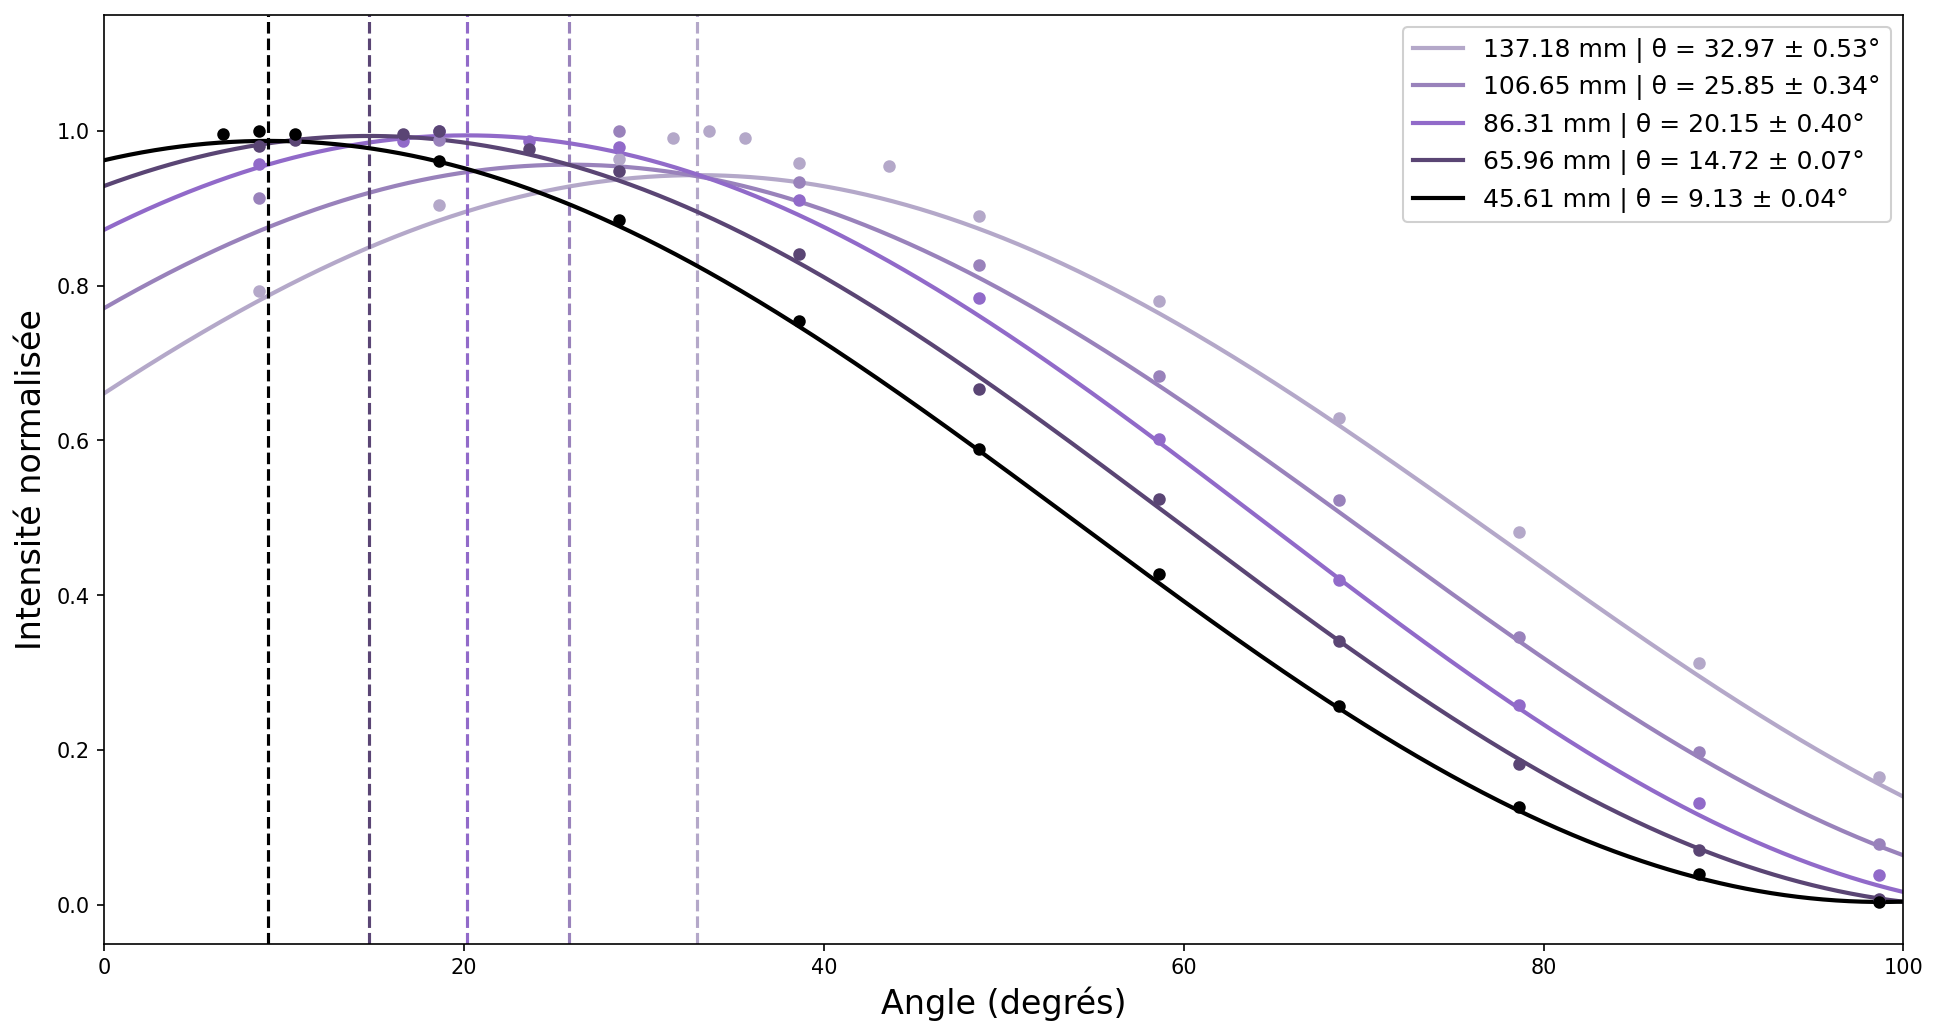
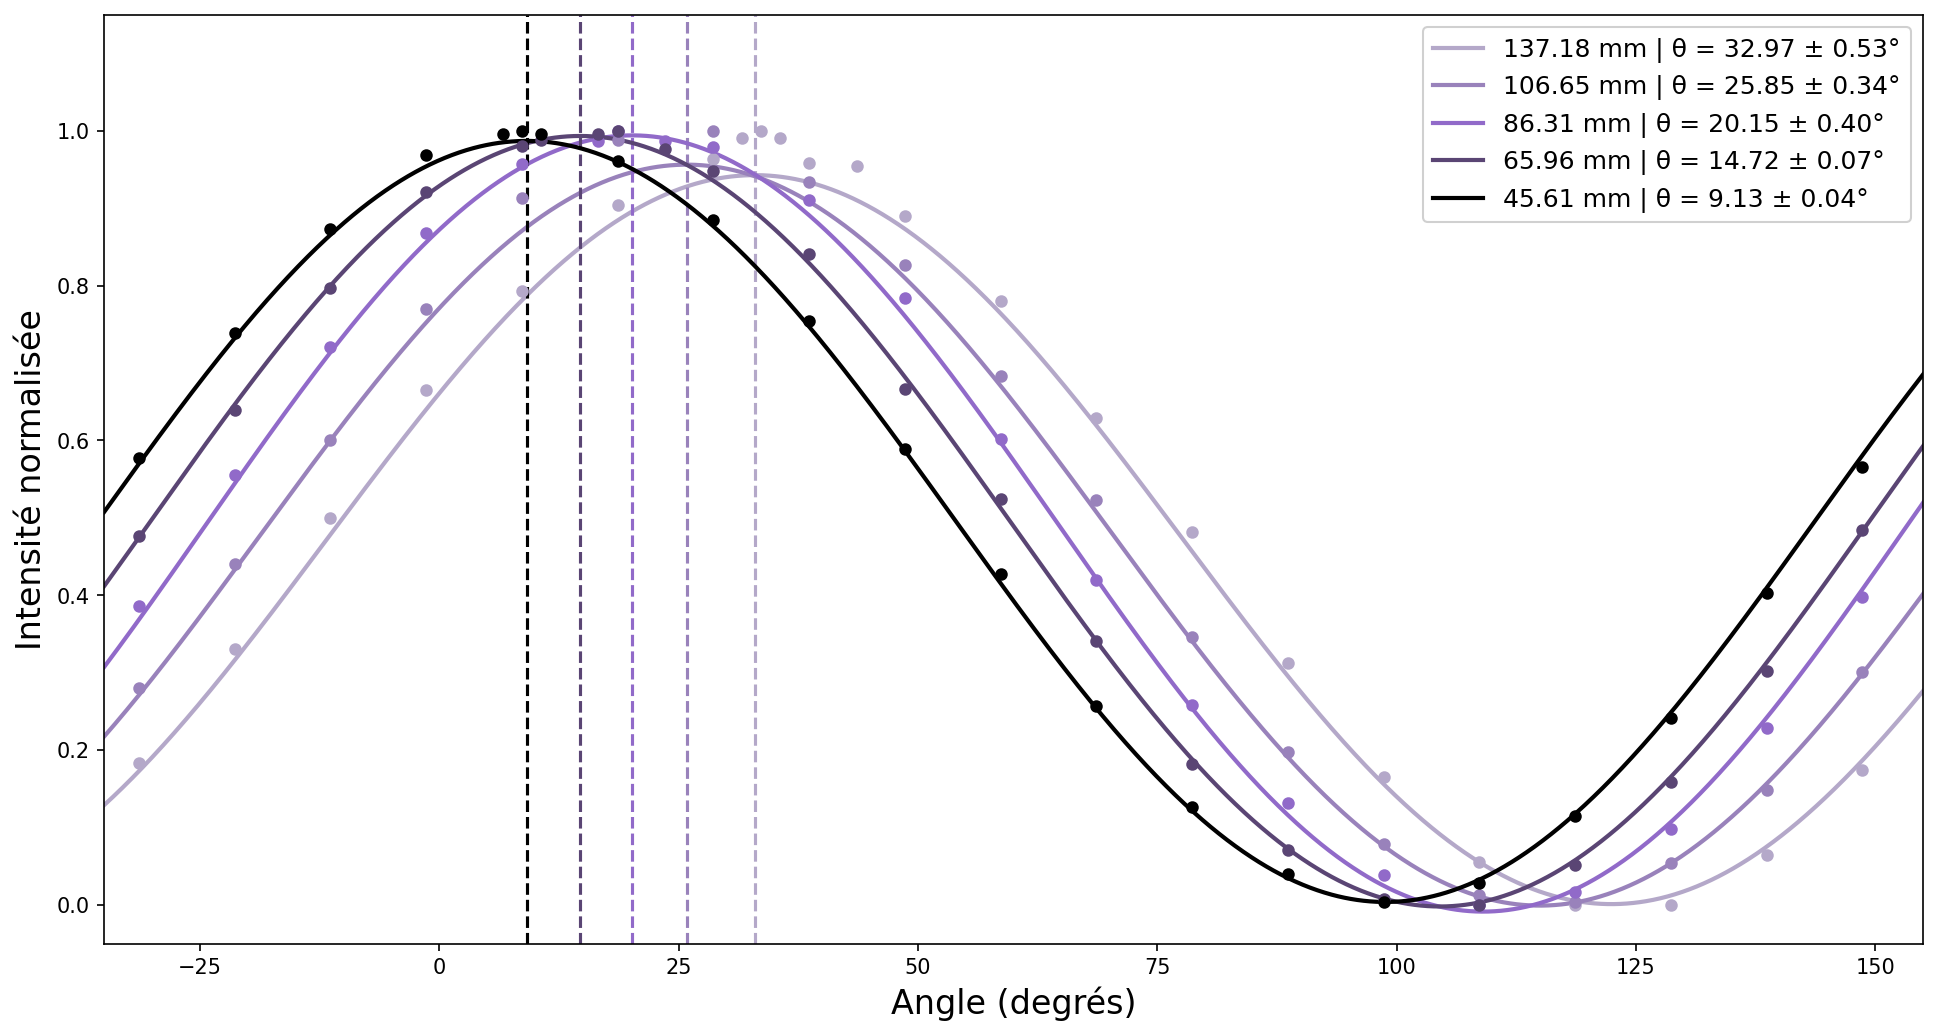
changements de noms et autres.... hihi

diff --git a/Projet_2/fructose_comparaison.py b/Projet_2/fructose_comparaison.py
@@ -9,8 +9,8 @@ from scipy.optimize import curve_fit
 # PARAMÈTRES — faciles à modifier
 # ============================================================
 theta_zero = 302.61
-ANGLE_MIN  = -130
-ANGLE_MAX  =   80
+ANGLE_MIN  = -120
+ANGLE_MAX  =   60
 # ============================================================
 
 base_dir   = os.path.dirname(os.path.abspath(__file__))
@@ -98,23 +98,23 @@ for i, col in enumerate(df.columns[2:2+len(vec_col)]):
         legend_label = f"{col} mm  |  θ_max = {x_max:.2f} ± {sigma_theta:.2f}°"
         ax.plot(x_smooth, y_smooth, color=vec_col[i], linewidth=2, label=legend_label)
 
-        ax.axvline(x_max, color=vec_col[i], linestyle='--', linewidth=0.7, alpha=0.4)
+        ax.axvline(x_max, color=vec_col[i], linestyle='--', linewidth=1.5, alpha=0.4)
 
     except RuntimeError:
         print(f"Curve fit échoué pour : {col}")
 
     print(f"{col} mm  |  θ_max = {x_max:.2f} ± {sigma_theta:.2f}°")
 
-ax.axvline(0, color='black', linewidth=1.2, linestyle='-', alpha=0.5, label='θ − θ₀ = 0°')
-ax.set_xlabel("Angle θ − θ₀  (degrés)", fontsize=13)
-ax.set_ylabel("Courant normalisé (u.a.)", fontsize=13)
+ax.axvline(0, color='black', linewidth=1.2, linestyle='-', alpha=0.5)
+ax.set_xlabel("Angle (°)", fontsize=13)
+ax.set_ylabel("Intensité normalisée", fontsize=13)
 ax.legend(fontsize=8.5, loc='upper right', framealpha=0.92)
-ax.grid(True, alpha=0.3)
-ax.set_xlim(ANGLE_MIN, ANGLE_MAX)
+ax.set_xlim(ANGLE_MIN-10, ANGLE_MAX+10)
 ax.set_ylim(-0.05, 1.15)
 
 plt.tight_layout()
-plt.show()
 
 out_path = os.path.join(base_dir, "plot_fructose.png")
-# plt.savefig(out_path, dpi=150, bbox_inches='tight')
+plt.savefig(out_path, dpi=600, bbox_inches='tight')
+
+plt.show()

diff --git a/Projet_2/glucose_comparaison.py b/Projet_2/glucose_comparaison.py
@@ -5,8 +5,8 @@ import matplotlib.pyplot as plt
 from scipy.optimize import curve_fit
 
 theta_zero   = 67.37
-ANGLE_MIN    = 0    
-ANGLE_MAX    = 100   
+ANGLE_MIN    = -30    
+ANGLE_MAX    = 150   
 sheet_name   = "Essai1"
 longueur     = ['137.18 mm', '106.65 mm', '86.31 mm', '65.96 mm', '45.61 mm'] 
 
@@ -95,7 +95,7 @@ for i, col in enumerate(longueur):
 
 ax.set_xlabel("Angle (degrés)", fontsize=16)
 ax.set_ylabel("Intensité normalisée", fontsize=16)
-ax.set_xlim(ANGLE_MIN, ANGLE_MAX)
+ax.set_xlim(ANGLE_MIN-5, ANGLE_MAX+5)
 ax.set_ylim(-0.05, 1.15)
 
 ax.legend(fontsize=12, loc='upper right', framealpha=0.92)
@@ -103,6 +103,6 @@ ax.legend(fontsize=12, loc='upper right', framealpha=0.92)
 plt.tight_layout()
 
 out_path = os.path.join(base_dir, "plot_glucose.png")
-plt.savefig(out_path, dpi=150, bbox_inches='tight')
+plt.savefig(out_path, dpi=600, bbox_inches='tight')
 
 plt.show()

diff --git a/Projet_2/glucose_moyenne_linéaire.py b/Projet_2/glucose_moyenne_linéaire.py
@@ -1,6 +1,10 @@
+import os
 import numpy as np
 import matplotlib.pyplot as plt
 import scipy.optimize as opt
+
+base_dir = os.path.dirname(os.path.abspath(__file__))
+excel_path = os.path.join(base_dir, "Projet_2_31_mars.xlsx")
 
 longueur = np.array([137.18, 106.65, 86.31, 65.96, 45.61])
 #angle = np.array([32.92, 25.8, 20.1, 14.67, 9.08]) #si theta 0 = 67.42
@@ -29,4 +33,8 @@ plt.plot(longueur_fit, angle_fit, color='black', linestyle='-', linewidth=2, lab
 plt.xlabel("Longueur (mm)", fontsize=14)
 plt.ylabel("Angle (°)", fontsize=14)
 plt.legend()
+
+out_path = os.path.join(base_dir, "plot_glucose_moyenne_lineaire.png")
+plt.savefig(out_path, dpi=600, bbox_inches='tight')
+
 plt.show()

diff --git a/Projet_2/fructose_moyenne_linéaire.py b/Projet_2/fructose_moyenne_linéaire.py
@@ -1,6 +1,9 @@
+import os
 import numpy as np
 import matplotlib.pyplot as plt
 import scipy.optimize as opt
+
+base_dir   = os.path.dirname(os.path.abspath(__file__))
 
 longueur = np.array([35.43, 60.78, 86.31, 111.84, 137.18])
 angle = np.array([-10.11, -20.48, -30.53, -40.85, -52.05])
@@ -28,4 +31,8 @@ plt.plot(longueur_fit, angle_fit, color='black', linestyle='-', linewidth=2, lab
 plt.xlabel("Longueur (mm)", fontsize=14)
 plt.ylabel("Angle (°)", fontsize=14)
 plt.legend()
+
+out_path = os.path.join(base_dir, "plot_fructose_moyenne_lineaire.png")
+plt.savefig(out_path, dpi=600, bbox_inches='tight')
+
 plt.show()

diff --git a/Projet_2/fructose_zéro.py b/Projet_2/fructose_zéro.py
@@ -88,7 +88,8 @@ ax.set_xlim(ANGLE_MIN, ANGLE_MAX)
 ax.set_ylim(-0.05, 1.15)
 
 plt.tight_layout()
-plt.show()
 
-out_path = os.path.join(base_dir, "plot_vide.png")
-# plt.savefig(out_path, dpi=150, bbox_inches='tight')
+out_path = os.path.join(base_dir, "plot_fructose_vide.png")
+plt.savefig(out_path, dpi=600, bbox_inches='tight')
+
+plt.show()

diff --git a/Projet_2/glucose_zéro.py b/Projet_2/glucose_zéro.py
@@ -82,7 +82,7 @@ plt.ylim(-0.05, 1.15)
 plt.legend()
 plt.grid()
 
-out_path = os.path.join(base_dir, "plot_vide.png")
-plt.savefig(out_path, dpi=150, bbox_inches='tight')
+out_path = os.path.join(base_dir, "plot_glucose_vide.png")
+plt.savefig(out_path, dpi=600, bbox_inches='tight')
 
 plt.show()
